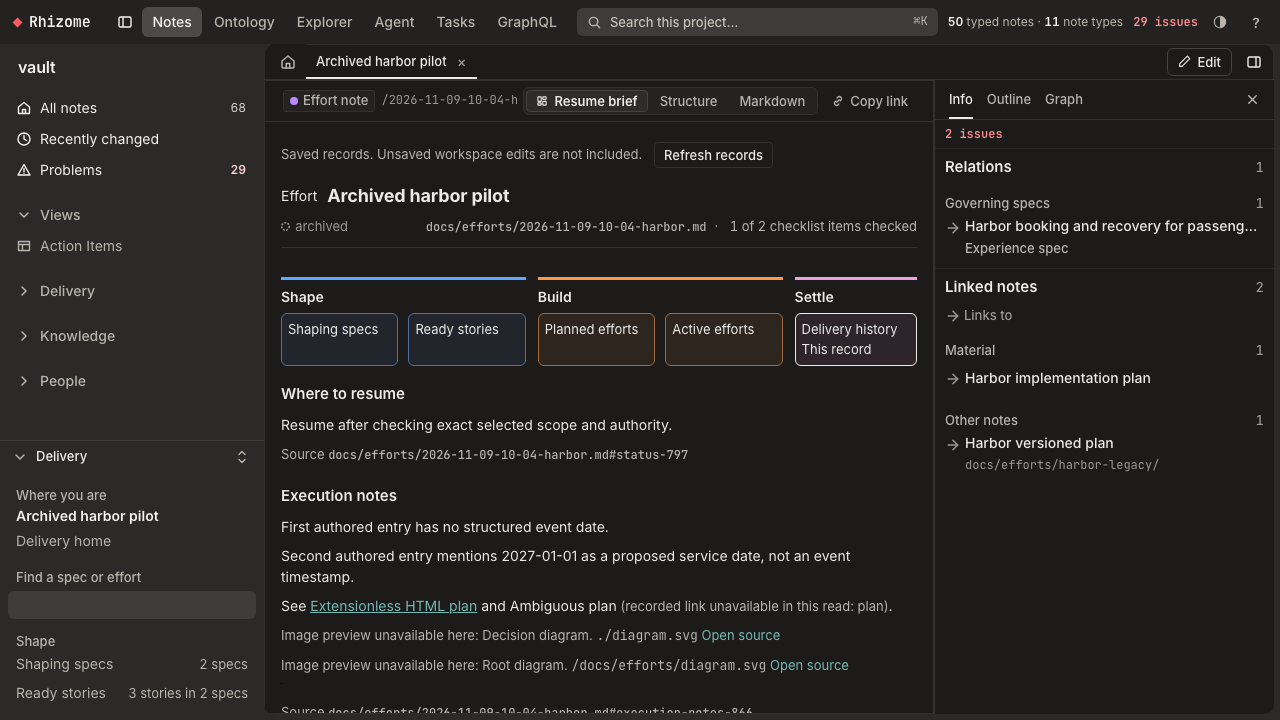
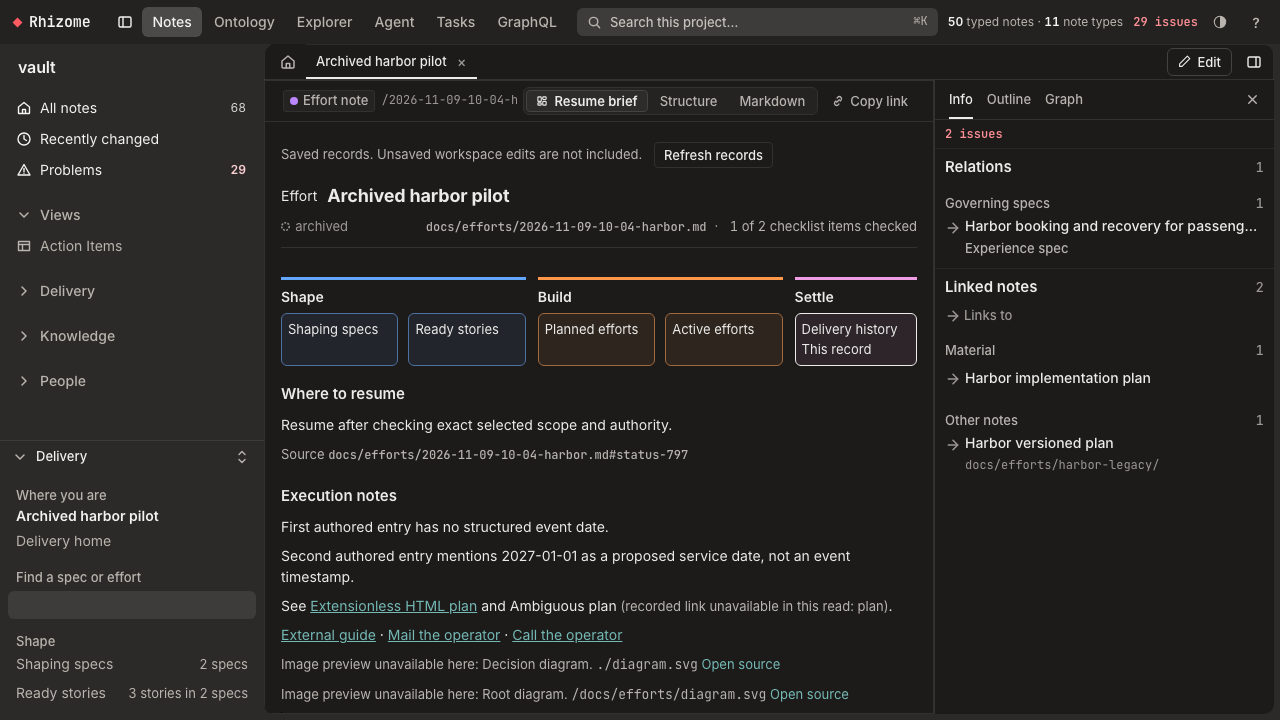
fix(delivery): keep external links outside note resolution

Changed region(s): [[0.2188, 0.8556, 0.6562, 1.0]]

diff --git a/web/tests/e2e-agentic-engineering/constraints.spec.ts b/web/tests/e2e-agentic-engineering/constraints.spec.ts
@@ -286,6 +286,22 @@ for (const colorScheme of ["light", "dark"] as const) {
       );
       await page.goto(record("docs/efforts/2026-11-09-10-04-harbor.md"));
       const f = content(page);
+      await expect(f.getByRole("link", { name: "External guide", exact: true })).toHaveAttribute(
+        "href",
+        "//cdn.example.invalid/guide",
+      );
+      await expect(f.getByRole("link", { name: "External guide", exact: true })).toHaveAttribute(
+        "target",
+        "_blank",
+      );
+      await expect(f.getByRole("link", { name: "Mail the operator", exact: true })).toHaveAttribute(
+        "href",
+        "mailto:operator@example.invalid",
+      );
+      await expect(f.getByRole("link", { name: "Call the operator", exact: true })).toHaveAttribute(
+        "href",
+        "tel:+15550100",
+      );
       await expect(
         f.getByText("Image preview unavailable here: Decision diagram.", { exact: true }),
       ).toBeVisible();

diff --git a/pkg/app/cli/init/templates/starters/agentic-engineering/module/views/delivery/evidence.tsx b/pkg/app/cli/init/templates/starters/agentic-engineering/module/views/delivery/evidence.tsx
@@ -25,11 +25,12 @@ function SourceAnchor({
   children?: ReactNode;
   from: string;
 }) {
-  const target = resolveRenderedLinkTarget(
-    href,
-    href?.startsWith("rhizome://note/") ? null : noIndexedLinks,
-  );
-  const authoredTarget = href?.startsWith("rhizome://note/")
+  const noteLink = href?.startsWith("rhizome://note/");
+  const target =
+    !noteLink && href && (href.startsWith("//") || URL.canParse(href))
+      ? null
+      : resolveRenderedLinkTarget(href, noteLink ? null : noIndexedLinks);
+  const authoredTarget = noteLink
     ? `[[${target}]]`
     : `[target](${href?.replaceAll("(", "%28").replaceAll(")", "%29")})`;
   const nav = usePageNavigation();

diff --git a/docs/efforts/2026-11-09-agentic-engineering-experience/evidence/greptile-review.md b/docs/efforts/2026-11-09-agentic-engineering-experience/evidence/greptile-review.md
@@ -106,3 +106,10 @@ Greptile reviewed `a1b7cd0da5b1a97097989938fec59027bee3d728` at 5/5 and raised o
 The installed regression added `/docs/efforts/diagram.svg` beside the existing relative image and a protocol-relative synthetic external image. Both theme cases failed before the fix because the root image fallback was absent. The one-line correction admits `//host/path` and absolute URLs while routing single-leading-slash paths through the existing labeled fallback and canonical source button. The external image is intercepted locally in the test; no remote dependency is added.
 
 The final run must preserve relative-path fallback, root-path fallback, decoded data and protocol-relative images, and source navigation. No retry, timeout or skip changed. Both corrected theme cases passed within the complete 77-case installed suite. `make check`, `make build`, strict template TypeScript and both documentation validators passed. Root inspected both refreshed screenshots individually. Current-head manual review follows the commit.
+
+
+## G11: Protocol-relative external links
+
+Greptile reviewed `30ca4b135c1e58df24d4823921c4e372a0d34f30` at 5/5, confirmed G10 fixed, and raised one P2 comment: a Markdown link to `//host/path` was passed to note preview resolution and replaced by unavailable text. Both installed theme regressions reproduced the missing link before correction.
+
+`SourceAnchor` now identifies protocol-relative and parseable absolute URLs as external before note resolution, with an explicit exception for canonical `rhizome://note/` targets. Its actual href and external-link behavior are retained; ordinary note and wikilink handling are unchanged. The shared core resolver is not changed. The fixture keeps protocol-relative links, protocol-relative images, repository-root images, relative images, and a data image together to exercise the boundary. Both theme cases and all 77 installed cases pass. The same fixture confirms mail and telephone hrefs stay clickable, absolute and protocol-relative images decode, repository image fallbacks stay visible, and source navigation works. `make check`, `make build`, strict template TypeScript and both validators pass; a final pre-commit check and current-head manual review follow.

diff --git a/docs/efforts/2026-11-09-21-28-agentic-engineering-experience.md b/docs/efforts/2026-11-09-21-28-agentic-engineering-experience.md
@@ -148,7 +148,7 @@ The final independent verdict is APPROVE. Root fixed the residual singular label
 
 ### Current-main and root-image follow-up
 
-The cleanup now includes `origin/main` at `a2d49bf19` through merge `3fa4314`. Full `make verify` passed on that integrated tree. Greptile then identified root-relative images bypassing the source fallback. Both-theme installed tests failed before the one-line correction and passed afterward; all 77 installed cases, `make check`, `make build`, strict template TypeScript and both validators pass. Both updated image captures were inspected. Current-head CI and manual review remain required before closure. The old-head macOS build failure was an external Go dependency DNS error, recorded separately; no test or production workaround was added.
+The cleanup now includes `origin/main` at `a2d49bf19` through merge `3fa4314`. Full `make verify` passed on that integrated tree. Greptile then identified root-relative images bypassing the source fallback. Both-theme installed tests failed before the one-line correction and passed afterward; all 77 installed cases, `make check`, `make build`, strict template TypeScript and both validators pass. Both updated image captures were inspected. The subsequent protocol-relative link finding was also reproduced in both themes and corrected at the SourceAnchor boundary; all 77 installed cases pass with mail and telephone links covered as well. Current-head CI and manual review remain required before closure. The old-head macOS build failure was an external Go dependency DNS error, recorded separately; no test or production workaround was added.
 
 ## Deviations
 

diff --git a/docs/efforts/2026-11-09-agentic-engineering-experience/evidence/ui-proof.md b/docs/efforts/2026-11-09-agentic-engineering-experience/evidence/ui-proof.md
@@ -30,4 +30,4 @@ All 77 installed Delivery cases pass, including source-link navigation, clipboar
 
 Full `make verify` passed with 2,169 web unit, 159 native browser, 90 Knowledge browser and 77 Delivery browser cases. The final singular-label and capture corrections then passed `make check`, `make build`, strict template TypeScript, the complete installed Delivery suite and both documentation validators. Fresh/update/eject and `init --check` are included in the installer checks. Earlier capture inventories remain historical evidence in the dated review records.
 
-These screenshots do not establish a formal screen-reader or contrast audit. Source-relative and repository-root images retain their label, path and canonical source button because the kit has no public binary attachment route. Absolute and protocol-relative external image URLs still render; both cases are decoded in the browser regression. Authored HTML uses its own appearance inside the isolated viewer, including a white document in a dark host. No unmerged build was installed into Rhizome Dev.
+These screenshots do not establish a formal screen-reader or contrast audit. Source-relative and repository-root images retain their label, path and canonical source button because the kit has no public binary attachment route. Absolute and protocol-relative external image URLs still render; both cases are decoded in the browser regression. Protocol-relative, mail and telephone links retain their external hrefs. Authored HTML uses its own appearance inside the isolated viewer, including a white document in a dark host. No unmerged build was installed into Rhizome Dev.

diff --git a/docs/efforts/2026-11-09-agentic-engineering-experience/evidence/fable52-cleanup.md b/docs/efforts/2026-11-09-agentic-engineering-experience/evidence/fable52-cleanup.md
@@ -47,3 +47,5 @@ The old `a1b7cd0` macOS job failed before Desktop tests when Go dependency DNS r
 Greptile's P2 root-image finding was reproduced in both installed themes. The source fallback now distinguishes repository-root paths from protocol-relative external images; `greptile-review.md` records G10.
 
 The G10 correction passed the complete 77-case installed suite, `make check`, `make build`, strict template TypeScript and both validators. Both refreshed image-fallback captures were inspected.
+
+The final G11 follow-up preserves protocol-relative and absolute external links while keeping canonical note links on the resolver. Both-theme regression and the complete 77-case installed suite pass; refreshed image/source captures include the working external links.

diff --git a/testdata/agentic-engineering/mixed/docs/efforts/2026-11-09-10-04-harbor.md b/testdata/agentic-engineering/mixed/docs/efforts/2026-11-09-10-04-harbor.md
@@ -43,6 +43,8 @@ Second authored entry mentions 2027-01-01 as a proposed service date, not an eve
 
 See [[docs/efforts/harbor-legacy/plan|Extensionless HTML plan]] and [[plan|Ambiguous plan]].
 
+[External guide](//cdn.example.invalid/guide) · [Mail the operator](mailto:operator@example.invalid) · [Call the operator](tel:+15550100)
+
 ![Decision diagram](./diagram.svg)
 
 ![Root diagram](/docs/efforts/diagram.svg)
